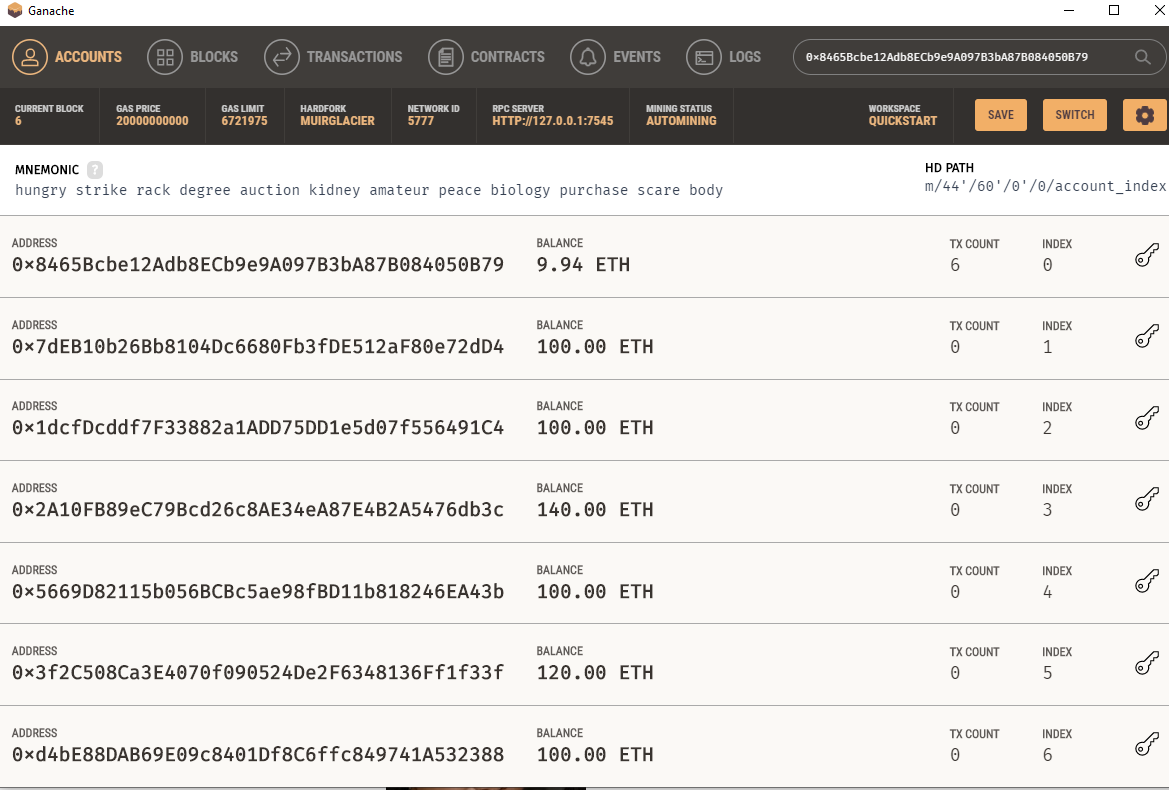
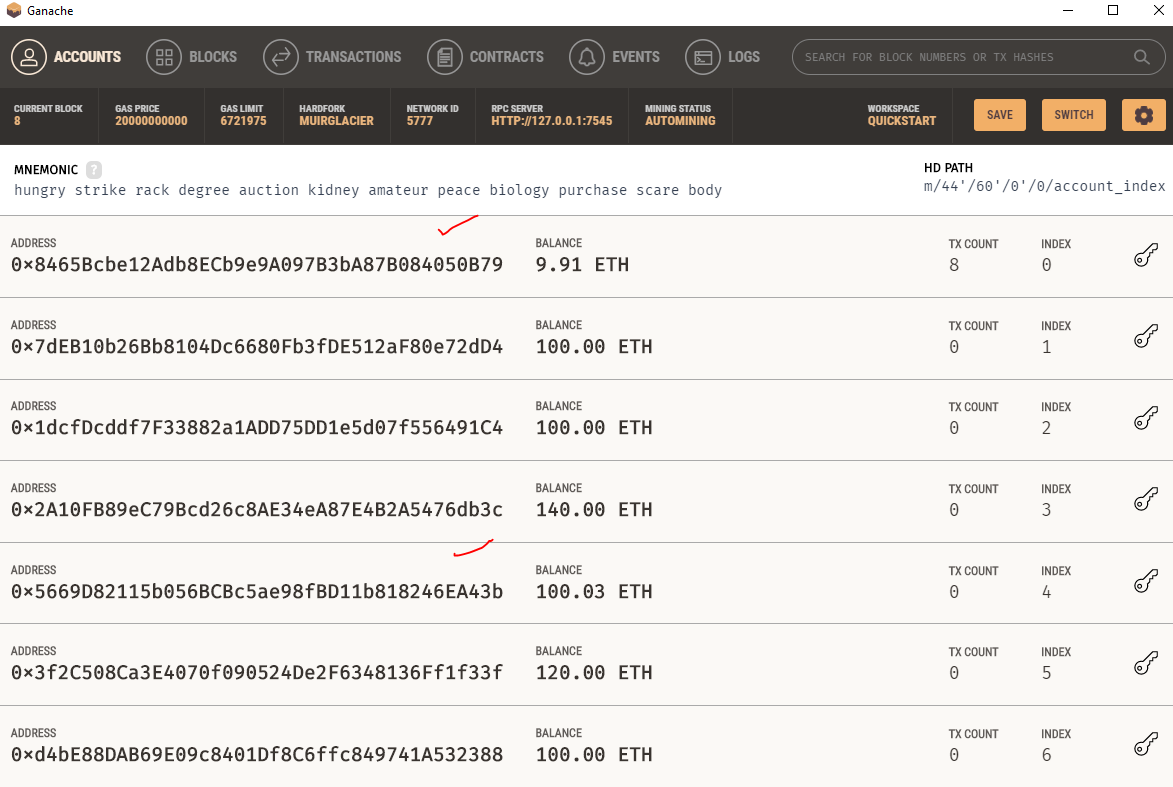
New Images to show received account.

diff --git a/fintech_finder.py b/fintech_finder.py
@@ -89,7 +89,7 @@ from crypto_wallet import generate_account,get_balance , send_transaction
 candidate_database = {
     "Lane": ["Lane", "0xaC8eB8B2ed5C4a0fC41a84Ee4950F417f67029F0", "4.3", .20, "Images/lane.jpeg"],
     "Ash": ["Ash", "0x2422858F9C4480c2724A309D58Ffd7Ac8bF65396", "5.0", .33, "Images/ash.jpeg"],
-    "Jo": ["Jo", "0x8fD00f170FDf3772C5ebdCD90bF257316c69BA45", "4.7", .19, "Images/jo.jpeg"],
+    "Jo": ["Jo", "0x5669D82115b056BCBc5ae98fBD11b818246EA43b", "4.7", .19, "Images/jo.jpeg"],
     "Kendall": ["Kendall", "0x8fD00f170FDf3772C5ebdCD90bF257316c69BA45", "4.1", .16, "Images/kendall.jpeg"]
 }
 
@@ -111,6 +111,22 @@ def get_people():
 
 ################################################################################
 # Streamlit Code
+
+#Increase width of sidebar
+st.markdown(
+    """
+    <style>
+    [data-testid="stSidebar"][aria-expanded="true"] > div:first-child {
+        width: 500px;
+    }
+    [data-testid="stSidebar"][aria-expanded="false"] > div:first-child {
+        width: 500px;
+        margin-left: -500px;
+    }
+    </style>
+    """,
+    unsafe_allow_html=True,
+)
 
 # Streamlit application headings
 st.markdown("# Fintech Finder!")

diff --git a/README.md b/README.md
@@ -39,7 +39,7 @@ Here we see the initial account balance in the client's account, observed in Gna
 
 ![initial.PNG](./Images/initial.PNG)
 
-After We have selected the candidate, Jo, in this scenario and selected the number of hours to hire for, 0.08, in this scenario, we have decided to hire the candidate and execute the send transaction action.
+After We have selected the candidate, Jo (address -0x5669D82115b056BCBc5ae98fBD11b818246EA43b ), in this scenario and selected the number of hours to hire for, 0.08, in this scenario, we have decided to hire the candidate and execute the send transaction action.
 
 ![Trans.PNG](./Images/Trans.PNG)
 
